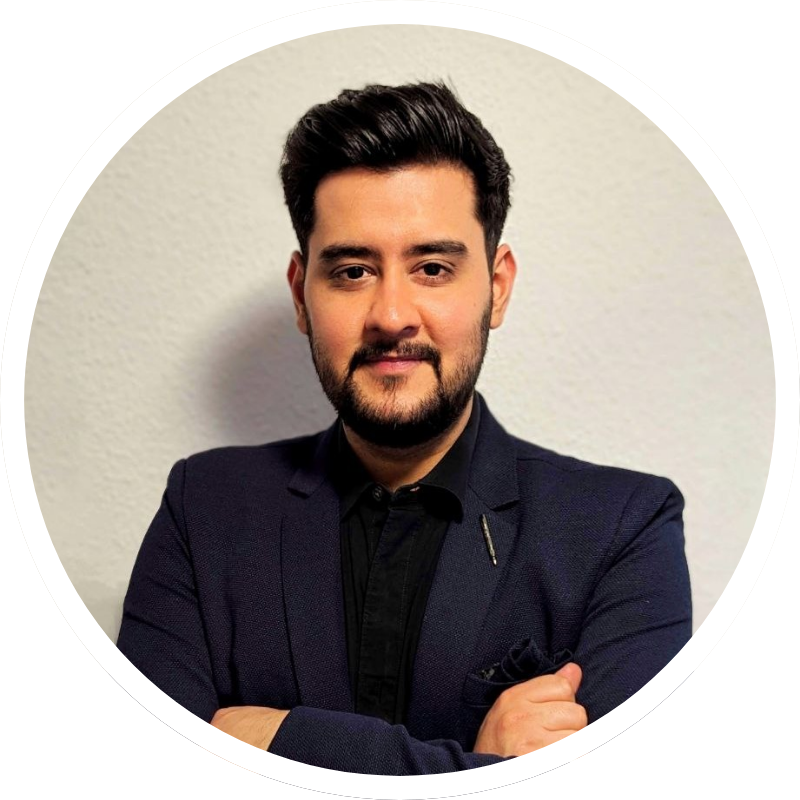
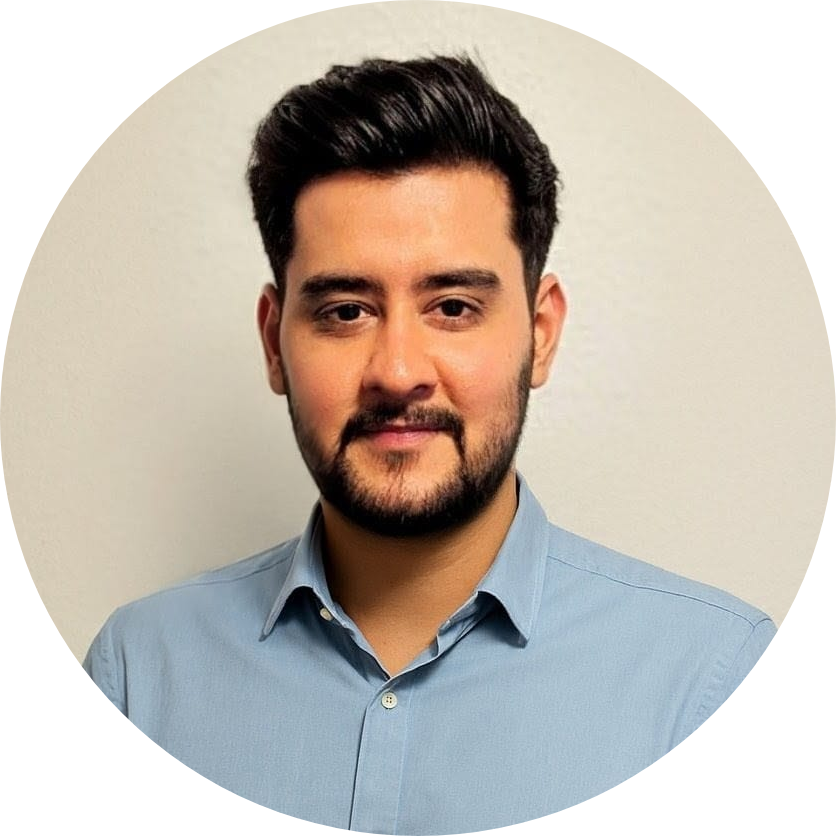
updated project image and styles

diff --git a/src/assets/styles/Project.scss b/src/assets/styles/Project.scss
@@ -16,9 +16,9 @@
 }
 
 .projects-container .projects-grid .project img {
-  width: 100%;
+  width: 100% auto;
   max-width: 420px;   // reduce visual size
-  height: 220px;      // consistent thumbnail height
+  height: 300px;      // consistent thumbnail height
   object-fit: cover;  // crop nicely
   display: block;
 }
